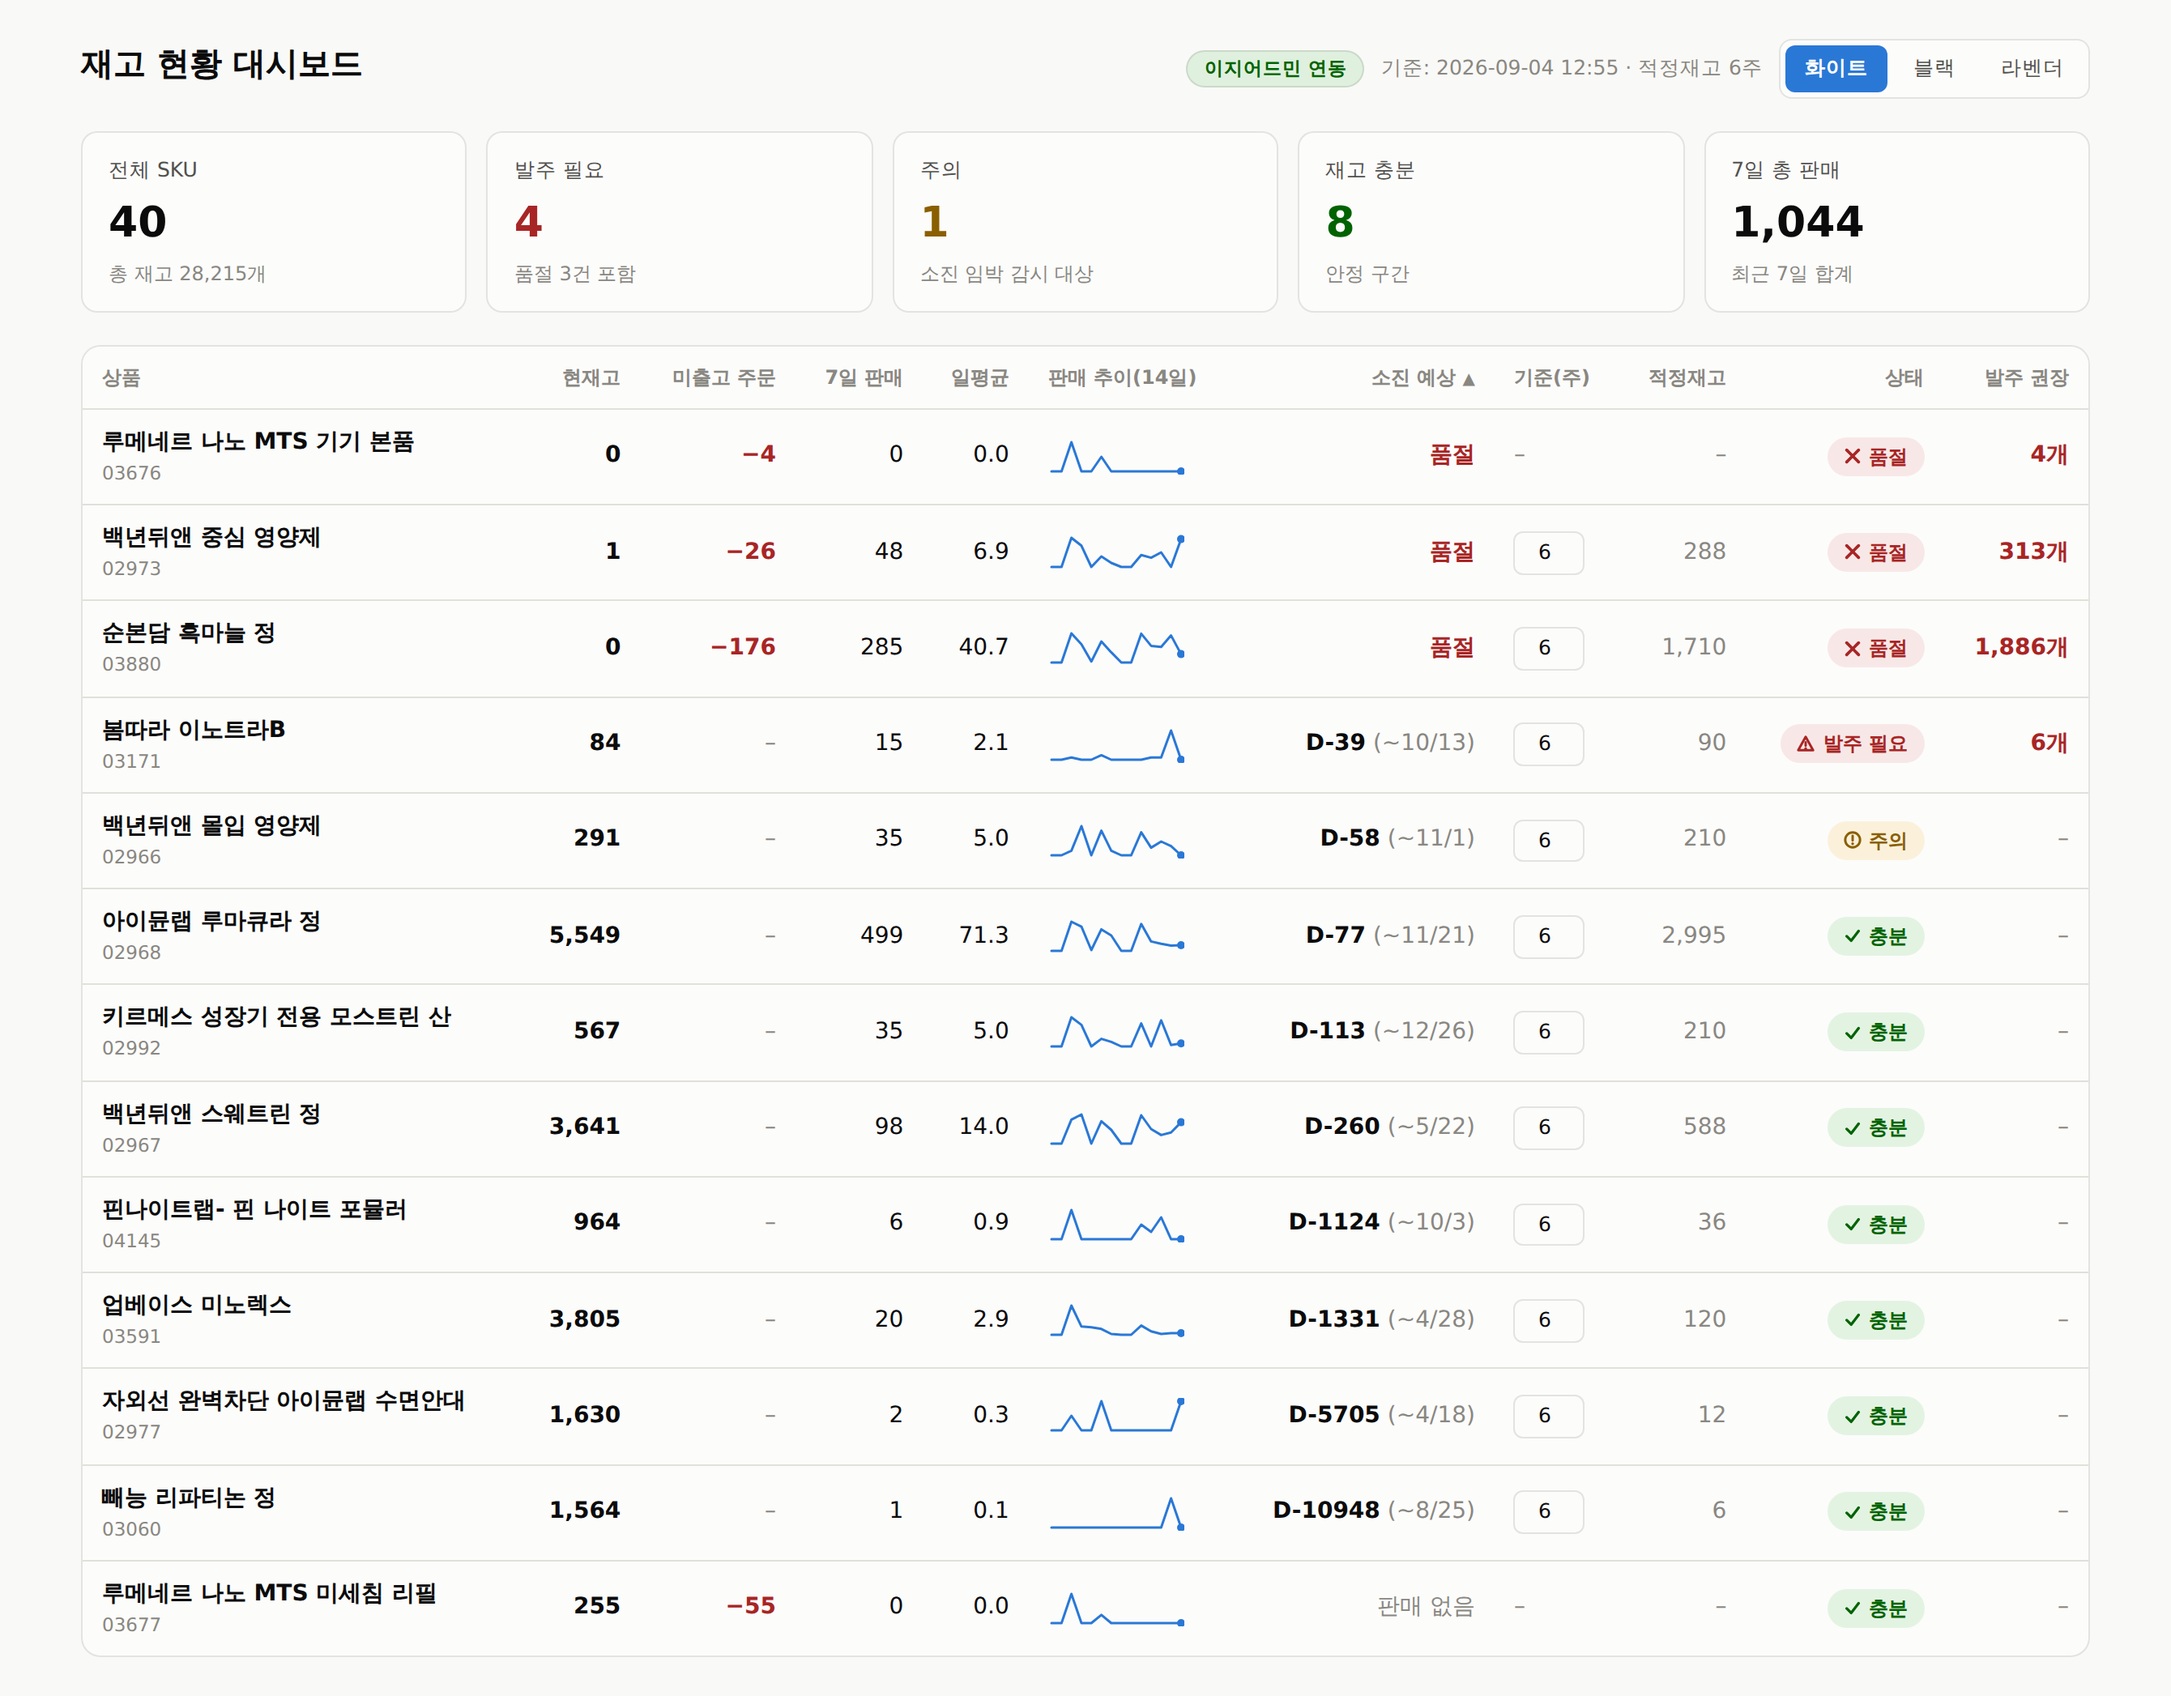
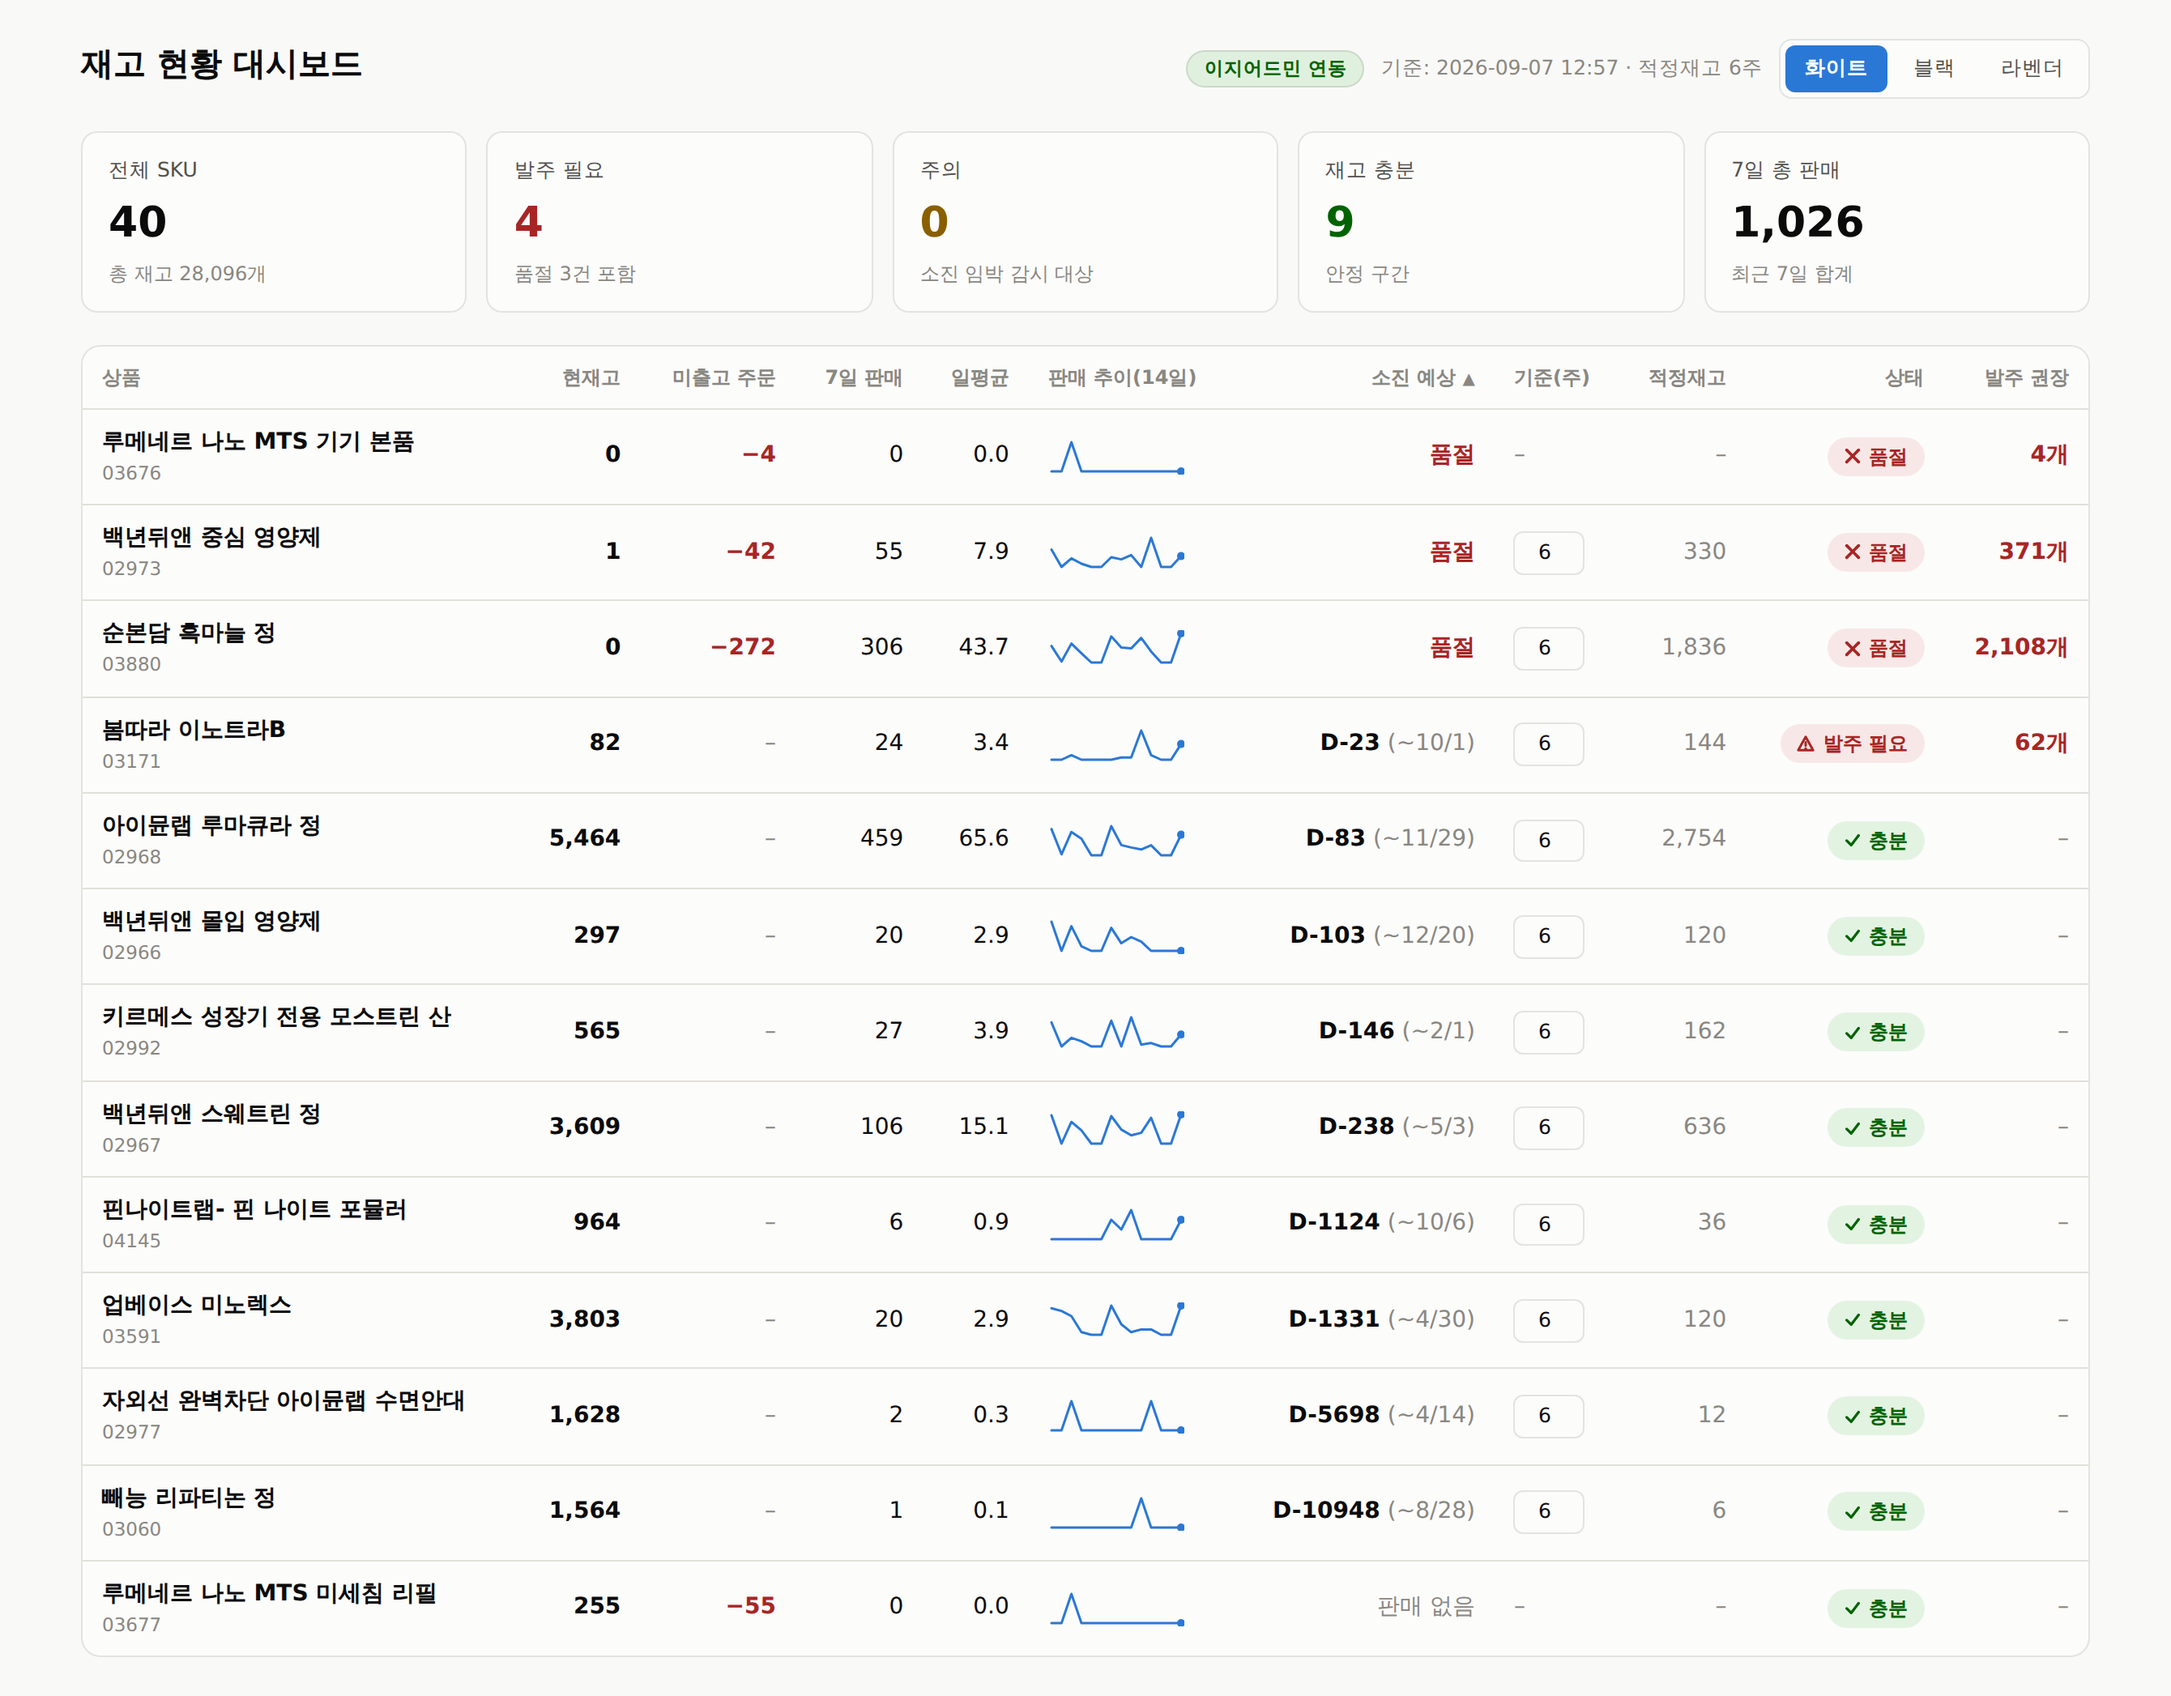
재고 대시보드 자동 갱신

diff --git a/index.html b/index.html
@@ -258,7 +258,7 @@
    stock: 정상재고, backlog: 접수(미출고 주문), daily: 최근 14일 일별 발주수량(06-30→07-13),
    lead: 리드타임 override(없으면 기본값 사용)
    ============================================================ */
-const UPDATED_AT = "2026-09-04 12:55";
+const UPDATED_AT = "2026-09-07 12:57";
 const PRODUCTS = [
  {
   "code": "02991",
@@ -338,10 +338,10 @@ const PRODUCTS = [
   "daily": [
    0,
    0,
-   2,
-   0,
-   0,
    1,
+   0,
+   0,
+   0,
    0,
    0,
    0,
@@ -361,10 +361,10 @@ const PRODUCTS = [
   "daily": [
    0,
    0,
-   35,
-   0,
-   0,
    10,
+   0,
+   0,
+   0,
    0,
    0,
    0,
@@ -494,12 +494,9 @@ const PRODUCTS = [
   "code": "02966",
   "name": "백년뒤앤 몰입 영양제",
   "opt": "",
-  "stock": 291,
+  "stock": 297,
   "backlog": 0,
   "daily": [
-   0,
-   0,
-   3,
    19,
    0,
    16,
@@ -510,6 +507,9 @@ const PRODUCTS = [
    5,
    9,
    6,
+   0,
+   0,
+   0,
    0
   ]
  },
@@ -517,12 +517,9 @@ const PRODUCTS = [
   "code": "02967",
   "name": "백년뒤앤 스웨트린 정",
   "opt": "",
-  "stock": 3641,
+  "stock": 3609,
   "backlog": 0,
   "daily": [
-   0,
-   0,
-   28,
    34,
    0,
    26,
@@ -533,7 +530,10 @@ const PRODUCTS = [
    17,
    10,
    13,
-   25
+   31,
+   0,
+   0,
+   35
   ]
  },
  {
@@ -541,11 +541,8 @@ const PRODUCTS = [
   "name": "백년뒤앤 중심 영양제",
   "opt": "",
   "stock": 1,
-  "backlog": 26,
+  "backlog": 42,
   "daily": [
-   0,
-   0,
-   22,
    16,
    0,
    8,
@@ -556,7 +553,10 @@ const PRODUCTS = [
    7,
    11,
    0,
-   21
+   27,
+   0,
+   0,
+   10
   ]
  },
  {
@@ -632,12 +632,9 @@ const PRODUCTS = [
   "code": "03171",
   "name": "봄따라 이노트라B",
   "opt": "",
-  "stock": 84,
+  "stock": 82,
   "backlog": 0,
   "daily": [
-   0,
-   0,
-   1,
    0,
    0,
    2,
@@ -648,7 +645,10 @@ const PRODUCTS = [
    1,
    1,
    13,
-   0
+   2,
+   0,
+   0,
+   7
   ]
  },
  {
@@ -667,10 +667,10 @@ const PRODUCTS = [
    0,
    0,
    0,
-   0,
-   0,
-   0,
    1,
+   0,
+   0,
+   0,
    0
   ]
  },
@@ -729,7 +729,7 @@ const PRODUCTS = [
   "daily": [
    0,
    0,
-   1,
+   0,
    0,
    0,
    0,
@@ -748,11 +748,8 @@ const PRODUCTS = [
   "name": "순본담 흑마늘 정",
   "opt": "",
   "stock": 0,
-  "backlog": 176,
+  "backlog": 272,
   "daily": [
-   0,
-   0,
-   86,
    54,
    3,
    62,
@@ -763,19 +760,19 @@ const PRODUCTS = [
    49,
    46,
    80,
-   25
+   36,
+   0,
+   0,
+   95
   ]
  },
  {
   "code": "02968",
   "name": "아이뮨랩 루마큐라 정",
   "opt": "",
-  "stock": 5549,
+  "stock": 5464,
   "backlog": 0,
   "daily": [
-   0,
-   0,
-   267,
    221,
    8,
    197,
@@ -786,7 +783,10 @@ const PRODUCTS = [
    86,
    66,
    49,
-   52
+   85,
+   0,
+   0,
+   173
   ]
  },
  {
@@ -908,12 +908,9 @@ const PRODUCTS = [
   "code": "03591",
   "name": "업베이스 미노렉스",
   "opt": "",
-  "stock": 3805,
+  "stock": 3803,
   "backlog": 0,
   "daily": [
-   0,
-   0,
-   35,
    10,
    9,
    7,
@@ -924,7 +921,10 @@ const PRODUCTS = [
    4,
    1,
    2,
-   2
+   2,
+   0,
+   0,
+   11
   ]
  },
  {
@@ -1023,12 +1023,9 @@ const PRODUCTS = [
   "code": "02977",
   "name": "자외선 완벽차단 아이뮨랩 수면안대",
   "opt": "",
-  "stock": 1630,
+  "stock": 1628,
   "backlog": 0,
   "daily": [
-   0,
-   0,
-   1,
    0,
    0,
    2,
@@ -1039,7 +1036,10 @@ const PRODUCTS = [
    0,
    0,
    0,
-   2
+   2,
+   0,
+   0,
+   0
   ]
  },
  {
@@ -1092,12 +1092,9 @@ const PRODUCTS = [
   "code": "02992",
   "name": "키르메스 성장기 전용 모스트린 산",
   "opt": "",
-  "stock": 567,
+  "stock": 565,
   "backlog": 0,
   "daily": [
-   0,
-   0,
-   19,
    14,
    0,
    5,
@@ -1108,7 +1105,10 @@ const PRODUCTS = [
    0,
    17,
    1,
-   2
+   2,
+   0,
+   0,
+   7
   ]
  },
  {
@@ -1120,9 +1120,6 @@ const PRODUCTS = [
   "daily": [
    0,
    0,
-   4,
-   0,
-   0,
    0,
    0,
    0,
@@ -1131,7 +1128,10 @@ const PRODUCTS = [
    1,
    3,
    0,
-   0
+   0,
+   0,
+   0,
+   2
   ]
  },
  {
